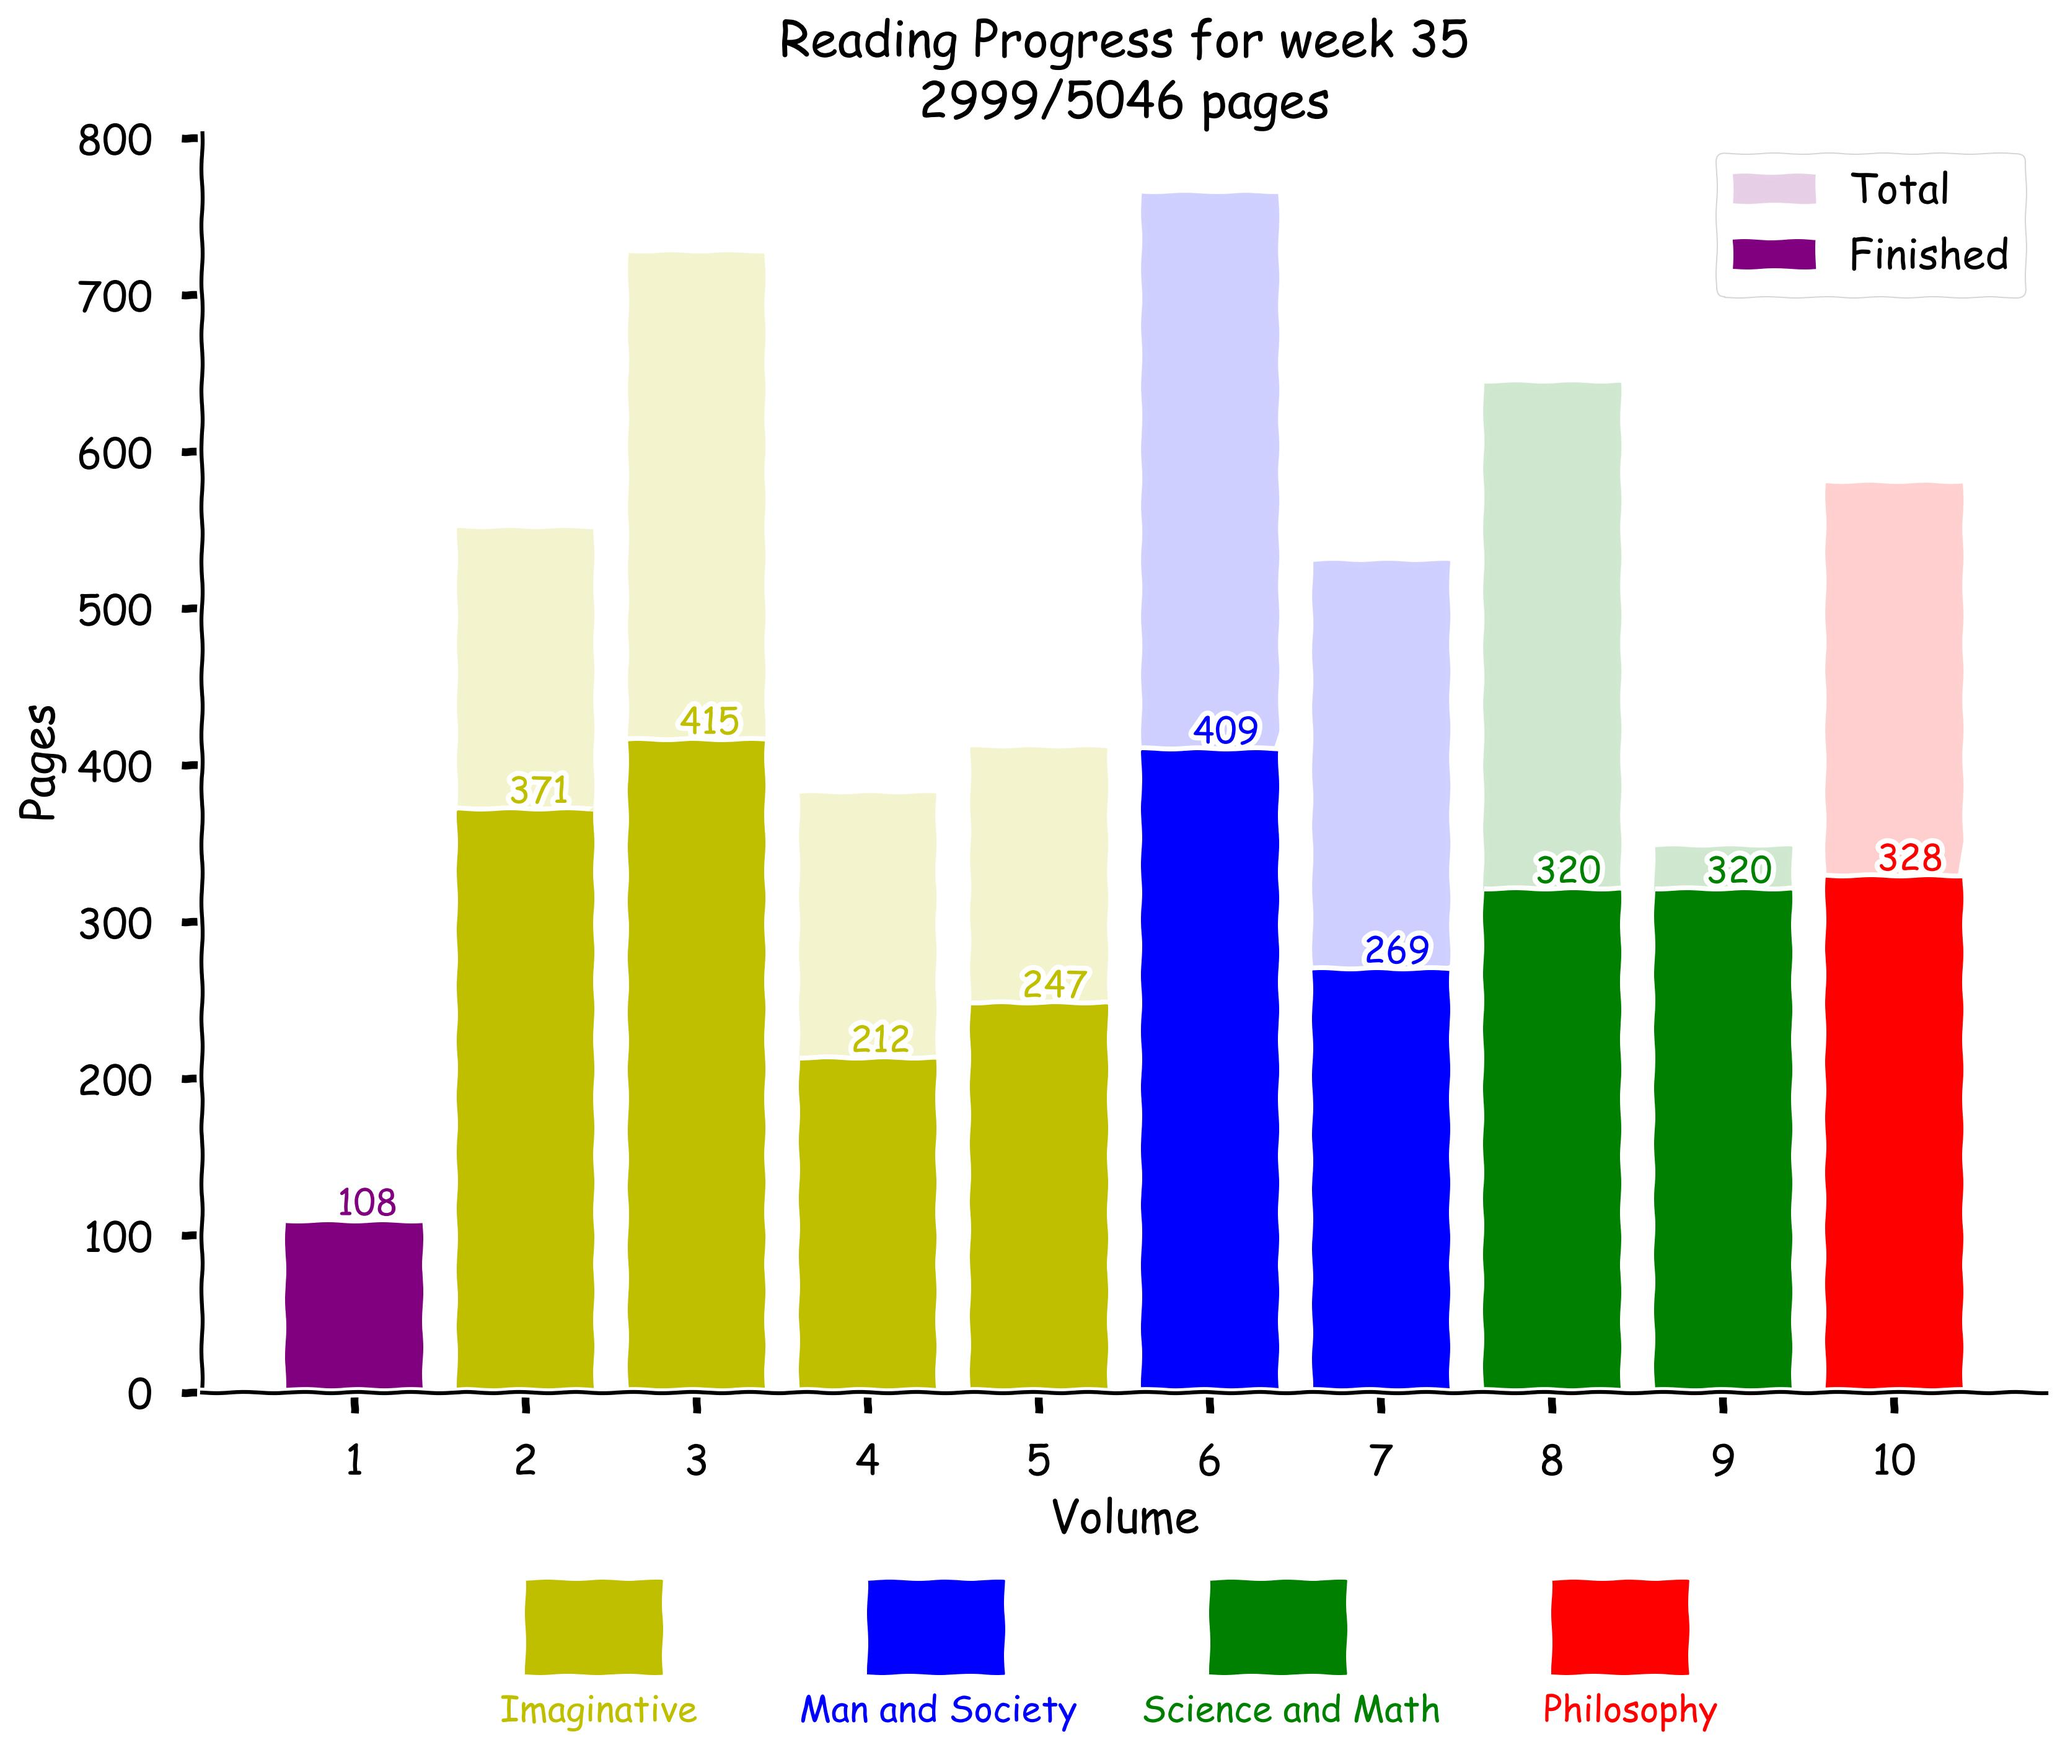
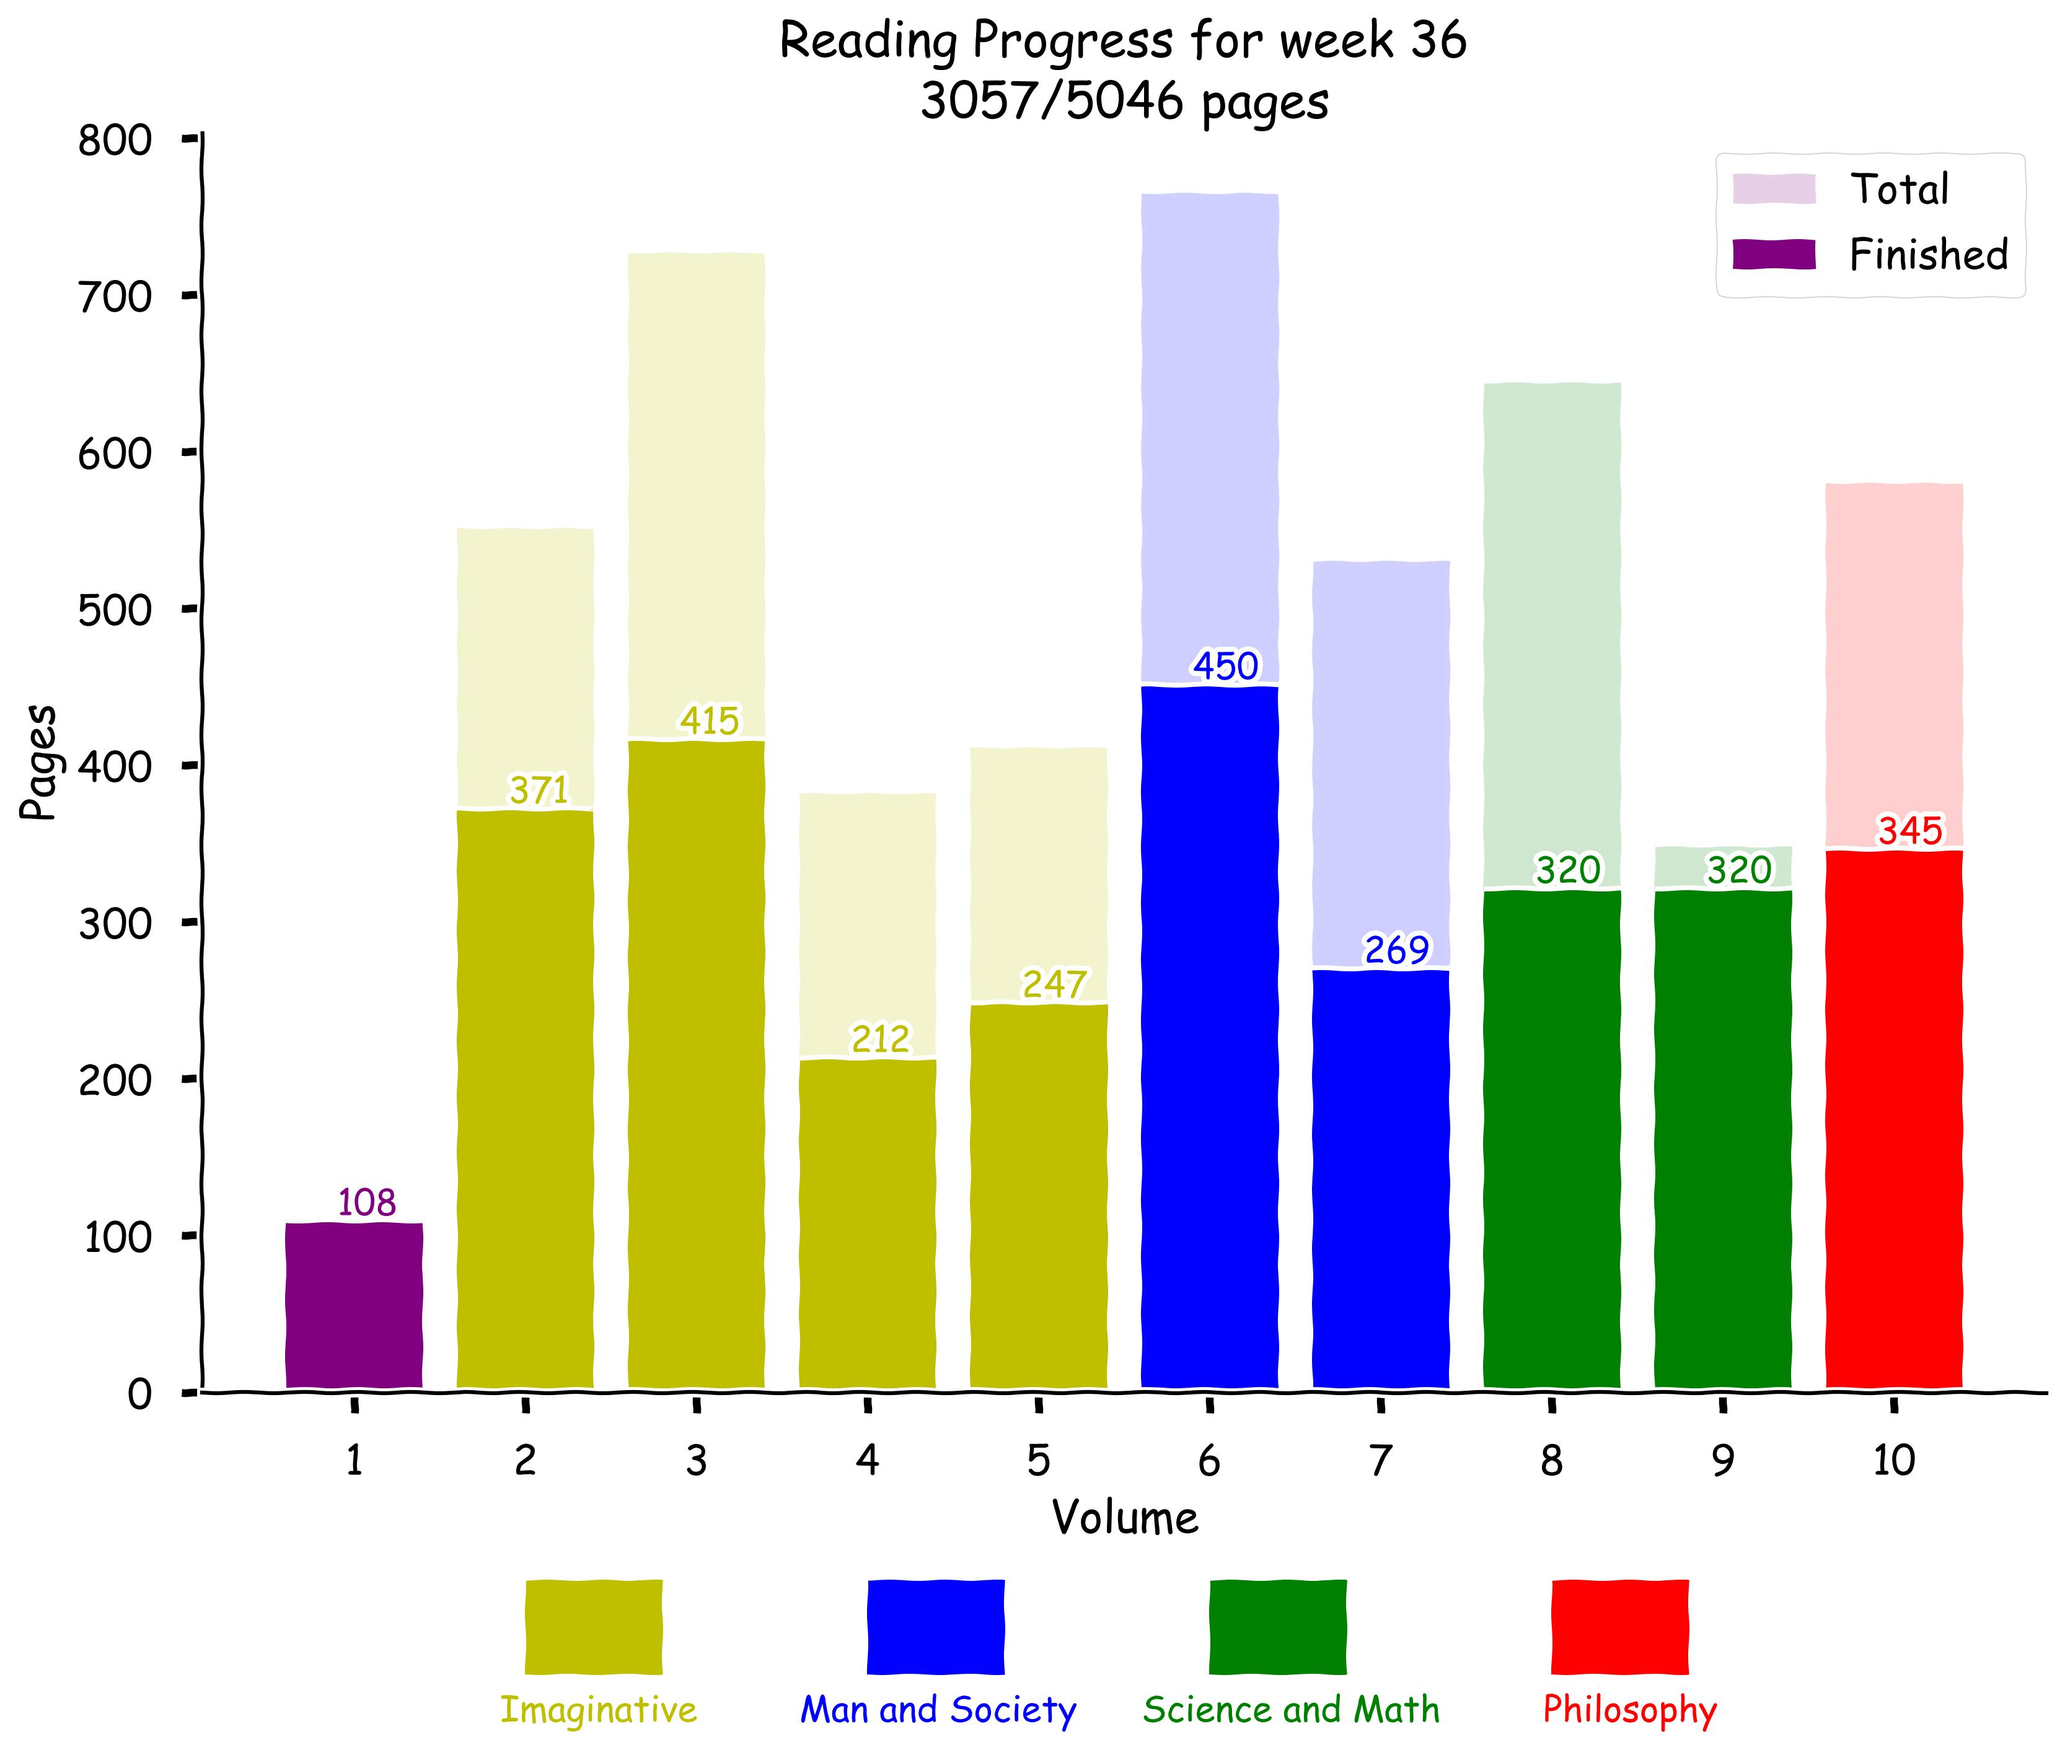
add week 36

diff --git a/reading_progress.md b/reading_progress.md
@@ -20,16 +20,23 @@ To finish the GGB, the total pages of this 10 vol set is 5046 pages, so the plan
 
 <center><img src="https://github.com/qingkaikong/qingkaikong.github.io/raw/main/images/progress.jpg" alt="Progress" style="width: 600px;"/></center>
 
-Week 35 (Oct 9 - Oct 15, 2023):
+Week 36 (Oct 16 - 22, 2023):
 
-* "Micromégas" by Voltaire (GGB  Vol. 2, pp. 237-256)  
-* "Rappaccini's Daughter" by Nathaniel Hawthorne (GGB  Vol. 3, pp. 124-152) 
+* "A Call to Patriots" by Thomas Paine (GGB  Vol. 6, pp. 457-468)  
+* "Circular Letter to the Governors of All the States" and "The Farewell Address" by George Washington (GGB  Vol. 6, pp. 469-497) 
+* "Montaigne" by Ralph Waldo Emerson (GGB  Vol. 10, pp. 546-562) 
 
 ---
 
 ## Done
 
 ### Year 2023
+
+> Week 35 (Oct 9 - Oct 15, 2023):
+
+* "Micromégas" by Voltaire (GGB  Vol. 2, pp. 237-256)  
+* "Rappaccini's Daughter" by Nathaniel Hawthorne (GGB  Vol. 3, pp. 124-152) 
+
 
 > Week 34 (Oct 2 - Oct 8, 2023):
 
